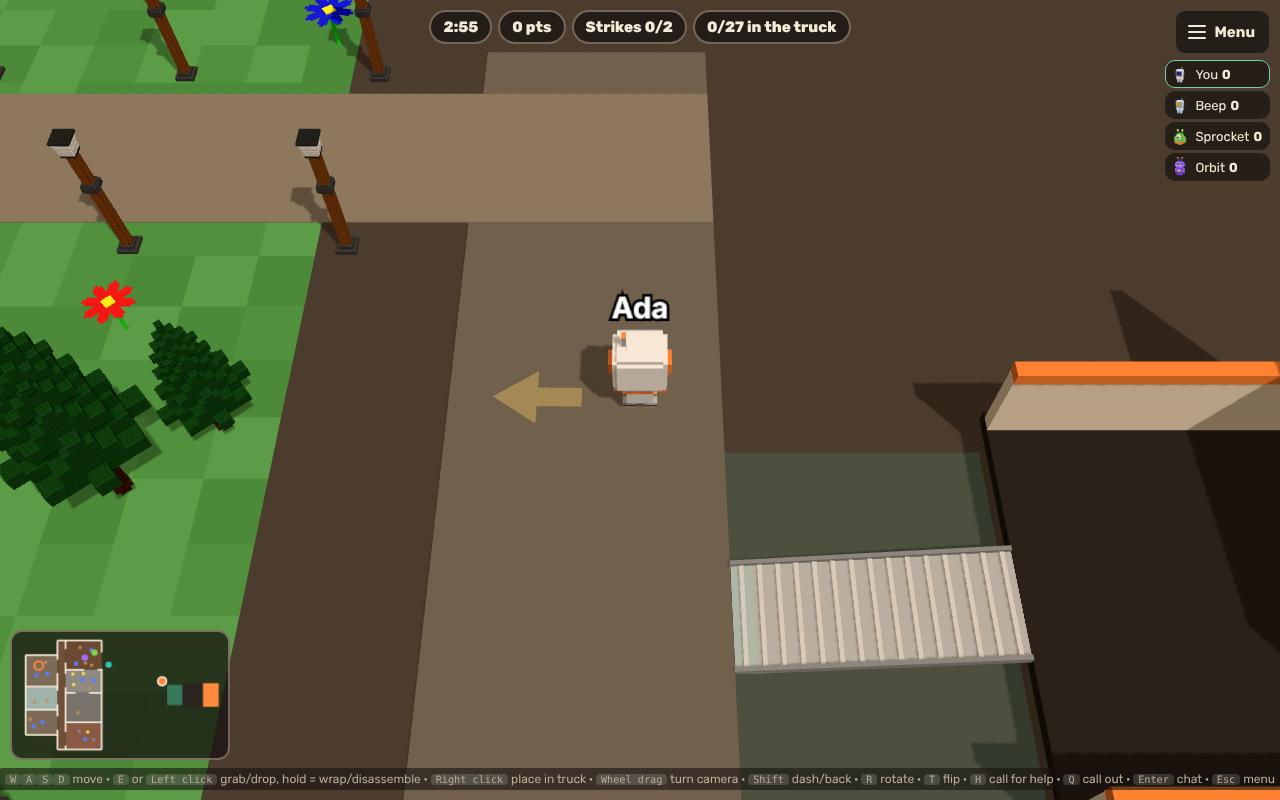
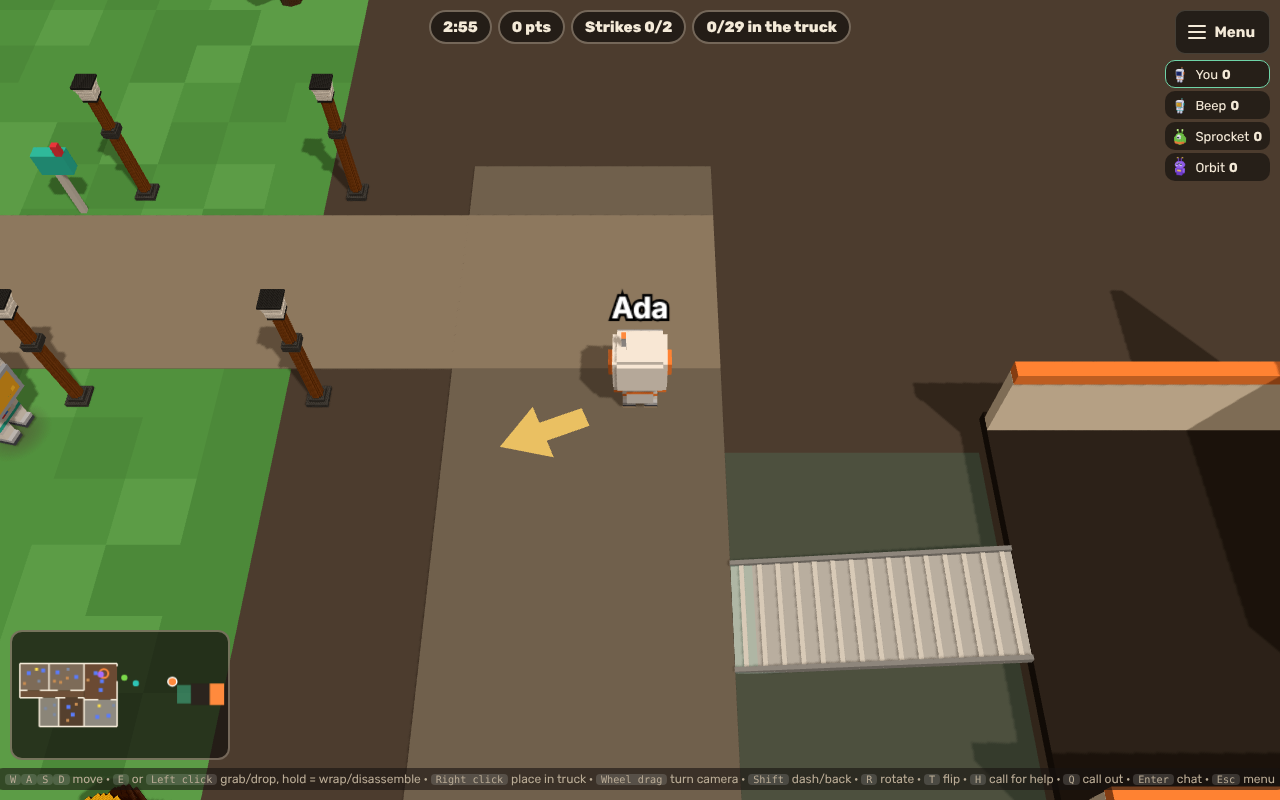
Truck: turn the view all the way round (the wall in the way steps aside), aim at the gap you can see, Full load finishes with 1-2 buried gaps
Claude-Session: https://claude.ai/code/session_01648dekPAc2ghJPhwff6oRe

diff --git a/client/src/voxel.js b/client/src/voxel.js
@@ -731,13 +731,18 @@ export function buildTruck(scene) {
   const body = 0xf4ead8, accent = 0xff8a3d, dark = 0x2b241e; // Starside white + orange
   const len = TRUCK.bayX1 - TRUCK.bayX0, wid = TRUCK.z1 - TRUCK.z0, x0 = TRUCK.bayX0, x1 = TRUCK.bayX1, fy = TRUCK.floorY;
   b.box(x0, fy - 0.2, -(wid / 2 + 0.4), x1, fy, wid / 2 + 0.4, dark, CELL);                             // floor, one block per cell
+  const truck = new THREE.Mesh(b.geometry(), voxMat); truck.castShadow = truck.receiveShadow = true; g.add(truck);
+  // the walls are separate pieces so the one between the camera and the load can step aside when the view is turned
+  const part = (fn) => { const pb = new Batch(); fn(pb); const m = new THREE.Mesh(pb.geometry(), voxMat); m.castShadow = m.receiveShadow = true; g.add(m); return m; };
+  const sides = {};
   for (const sz of [-1, 1]) {
     const zc = sz * (wid / 2 + 0.2);
-    b.box(x0, fy, zc - 0.1, x1, fy + 1.2, zc + 0.1, body, 0.4);                                         // side wall
-    b.box(x0, fy + 1.2, zc - 0.11, x1, fy + 1.4, zc + 0.11, accent, 0.4);                               // stripe
+    sides[sz] = part(pb => {
+      pb.box(x0, fy, zc - 0.1, x1, fy + 1.2, zc + 0.1, body, 0.4);                                      // side wall
+      pb.box(x0, fy + 1.2, zc - 0.11, x1, fy + 1.4, zc + 0.11, accent, 0.4);                            // stripe
+    });
   }
-  b.box(x1, fy, -(wid / 2 + 0.3), x1 + 0.2, fy + GRID.H * CELL + 0.3, wid / 2 + 0.3, body, 0.4);        // bulkhead
-  const truck = new THREE.Mesh(b.geometry(), voxMat); truck.castShadow = truck.receiveShadow = true; g.add(truck);
+  const bulkhead = part(pb => pb.box(x1, fy, -(wid / 2 + 0.3), x1 + 0.2, fy + GRID.H * CELL + 0.3, wid / 2 + 0.3, body, 0.4));
   // the cab is a hover-truck model (see /credits.html), tinted Starside purple; it hovers, so glowing pads instead of tyres
   const cab = new THREE.Group(); cab.position.set((x1 + 0.2 + TRUCK.cabX1) / 2, 0.25, 0);
   attachModel(cab, '/models/env/cab.glb', { tint: 0xf2e6d4, rot: 1, fit: [TRUCK.cabX1 - x1 - 0.2, wid + 0.6, 2.75] });
@@ -747,6 +752,7 @@ export function buildTruck(scene) {
   g.add(new THREE.Mesh(pads.geometry(), glowMat));
   const logo = new THREE.Mesh(new THREE.PlaneGeometry(3.2, 1.6), new THREE.MeshBasicMaterial({ map: labelTexture('★ STARSIDE MOVERS', { fg: '#fff', font: 'bold 34px system-ui', w: 420, h: 100 }), transparent: true }));
   logo.rotation.x = -Math.PI / 2; logo.rotation.z = Math.PI / 2; logo.position.set((x1 + TRUCK.cabX1) / 2 + 0.1, 2.92, 0); g.add(logo);
+  scene.truckParts = { sides, front: [bulkhead, cab, logo] };
   // a U-Haul style ramp: narrow, thin, ribbed aluminium with side lips, hinged at the truck so it can slide away under the floor
   const r = TRUCK.ramp, run = r.x1 - r.x0, RL = Math.hypot(run, fy), RW = 1.5, rb = new Batch(), AL = 0xb9bcc0, RIB = 0xd8dadc, LIP = 0x8e9196;
   rb.box(-RL, -0.05, -RW / 2, 0, 0, RW / 2, AL, 0.3);                                                  // the deck, 5 cm thick

diff --git a/client/src/scene.js b/client/src/scene.js
@@ -405,7 +405,19 @@ export class GameScene {
     this.raycaster.setFromCamera(v, this.camera);
     const plane = new THREE.Plane(new THREE.Vector3(0, 1, 0), -(TRUCK.floorY + CELL));
     const hit = new THREE.Vector3();
-    if (!this.raycaster.ray.intersectPlane(plane, hit)) return null;
+    // march along the ray and stop at the first stack (or bare floor) it actually touches, so a low gap between tall
+    // stacks picks the gap you can see, not whatever the ray crosses at a fixed height
+    const ray = this.raycaster.ray, hs = this.heights(), p = new THREE.Vector3();
+    const top = TRUCK.floorY + GRID.H * CELL + 0.5;
+    const t0 = ray.direction.y < 0 ? Math.max(0, (top - ray.origin.y) / ray.direction.y) : 0;
+    for (let t = t0, end = t0 + 60; t < end; t += 0.05) {
+      ray.at(t, p);
+      if (p.y < TRUCK.floorY - 0.2) break;
+      const cx = Math.floor((p.z - TRUCK.z0) / CELL), cz = Math.floor((TRUCK.bayX1 - p.x) / CELL);
+      if (cx < 0 || cz < 0 || cx >= GRID.W || cz >= GRID.D) continue;
+      if (p.y <= TRUCK.floorY + hs[cx][cz] * CELL + 0.02) return { gx: cx, gz: cz };
+    }
+    if (!ray.intersectPlane(plane, hit)) return null;
     const gx = Math.floor((hit.z - TRUCK.z0) / CELL), gz = Math.floor((TRUCK.bayX1 - hit.x) / CELL);
     if (gx < -1 || gz < -1 || gx > GRID.W || gz > GRID.D) return null;
     return { gx: Math.max(0, Math.min(GRID.W - 1, gx)), gz: Math.max(0, Math.min(GRID.D - 1, gz)) };
@@ -767,6 +779,12 @@ export class GameScene {
     this.lookAt = this.lookAt || this.camTarget.clone();
     this.lookAt.lerp(this.camTarget, 1 - Math.exp(-k * dt));
     this.camera.lookAt(this.lookAt);
+    // in the truck with the view turned: the wall between the camera and the load steps aside
+    if (this.truckParts) {
+      const tp = this.truckParts, look = !!me?.loadMode && !this.drive, c = this.camera.position, w = (TRUCK.z1 - TRUCK.z0) / 2;
+      for (const sz of [-1, 1]) tp.sides[sz].visible = !(look && c.z * sz > w + 0.2);
+      for (const m of tp.front) m.visible = !(look && c.x > TRUCK.bayX1 - 0.5);
+    }
     if (this.shakeT > 0) {
       this.shakeT -= dt;
       this.camera.position.x += (Math.random() - 0.5) * 0.5;

diff --git a/test/room.test.js b/test/room.test.js
@@ -373,6 +373,29 @@ test('Full load mode: round ends only when all 64 cells are packed', () => {
   assert.match(room.results.reason, /Perfect load/);
 });
 
+test('Full load mode: done with one or two gaps buried under the load, but not while a gap is open at the top', () => {
+  const fill = (room, skip) => // boxes drop to the lowest free spot, so skipping a cell leaves the top of that column open
+    { for (let x = 0; x < 4; x++) for (let z = 0; z < 4; z++) for (let y = 0; y < 4; y++) if (!skip(x, z, y)) gridPlace(room.grid, { id: `f${x}${z}${y}`, type: 'standard' }, x, z, 0); };
+  // two holes in the middle and at the bottom, with boxes over them: finished
+  let r = makeRoom({}); r.join('A', 'Ada'); r.send('A', 'mode', { mode: 'load' }); r.send('A', 'start');
+  fill(r.room, () => false);
+  r.room.grid.cells[1][1][1] = null; r.room.grid.cells[2][3][0] = null; // holes under the stacks
+  r.room.tick(0.05); driveAway(r.room);
+  assert.equal(r.room.phase, 'results');
+  assert.match(r.room.results.reason, /Full load! Only two gaps left/);
+  // one hole in the top layer: still open from above, so keep loading
+  r = makeRoom({}); r.join('A', 'Ada'); r.send('A', 'mode', { mode: 'load' }); r.send('A', 'start');
+  fill(r.room, (x, z, y) => x === 0 && z === 0 && y === 3);
+  r.room.tick(0.05);
+  assert.equal(r.room.phase, 'playing', 'a gap at the top can still be filled');
+  // three buried holes: not close enough
+  r = makeRoom({}); r.join('A', 'Ada'); r.send('A', 'mode', { mode: 'load' }); r.send('A', 'start');
+  fill(r.room, () => false);
+  for (const [x, z] of [[0, 0], [1, 2], [3, 3]]) r.room.grid.cells[x][z][0] = null;
+  r.room.tick(0.05);
+  assert.equal(r.room.phase, 'playing', 'three gaps is not a full load');
+});
+
 test('Full load mode: hold ACTION on the ramp to unload; pulling an item takes back its points', () => {
   const { room, join, send } = makeRoom({});
   const a = join('A', 'Ada');

diff --git a/server/MoveRoom.js b/server/MoveRoom.js
@@ -1,6 +1,6 @@
 import { Room, ServerError } from '@colyseus/core';
 import { debugHooksOn, limiter, isProd } from './security.js';
-import { createGrid, placeItem, tallyVotes, ITEM_TYPES, RULES, GRID, footprint, orientations, ORIENT_LABEL, canFitAny, isRemovable, removeFromGrid, topItemAt, SUITS, suitUnlocked, dailySeed, driveOffCheck, placementQuality } from '../shared/logic.js';
+import { createGrid, placeItem, tallyVotes, ITEM_TYPES, RULES, GRID, footprint, orientations, ORIENT_LABEL, canFitAny, isRemovable, removeFromGrid, topItemAt, SUITS, suitUnlocked, dailySeed, driveOffCheck, placementQuality, gridGaps } from '../shared/logic.js';
 import { Bot, BOT_NAMES, DIFFICULTY } from './bot.js';
 import { PLAYER_SPAWNS, inRamp, TRUCK } from '../shared/world.js';
 import { generateLevel, classicLevel, newSeed, freeSpot, tutorialLevel, houseCode, seedFromCode } from '../shared/level.js';
@@ -1498,7 +1498,10 @@ export class MoveRoom extends Room {
     }
     let doneReason = null;
     if (this.isExact()) {
+      const gaps = gridGaps(this.grid);
       if (filled === GRID.W * GRID.D * GRID.H) doneReason = 'Perfect load! The truck is packed to the roof.';
+      else if (!remaining.length) doneReason = 'Full load! Everything is in the truck.';
+      else if (gaps.empty <= 2 && gaps.open === 0) doneReason = `Full load! Only ${gaps.empty === 1 ? 'one gap' : 'two gaps'} left, buried in the load.`; // holes under the load can't be reached; holes at the top still can
       else if (remaining.length && !this.fitCache.fits && !this.stuckHinted) {
         this.stuckHinted = true;
         this.event({ kind: 'toast', text: '🧩 Nothing else fits! Hold ACTION on the ramp to pull pieces back out and repack.' });

diff --git a/client/src/main.js b/client/src/main.js
@@ -966,9 +966,9 @@ const touchEnd = (e) => {
   void me; void dt; void dist; // (turning a piece is the Rotate / Flip buttons now)
 };
 cv.addEventListener('pointerup', touchEnd); cv.addEventListener('pointercancel', touchEnd);
-/** Turn the camera: all the way round while walking; in the truck, up to about 50° either side so the walls don't hide the load. */
+/** Turn the camera all the way round, walking about or loading the truck. */
 function turnCam(d) {
-  if (meNow()?.loadMode) scene.truckYaw = Math.max(-0.9, Math.min(0.9, (scene.truckYaw || 0) + d));
+  if (meNow()?.loadMode) scene.truckYaw = ((scene.truckYaw || 0) + d) % (Math.PI * 2); // all the way round: the wall nearest the camera steps aside
   else scene.camYaw = ((scene.camYaw || 0) + d) % (Math.PI * 2);
 }
 // hold the wheel (middle button) and move the mouse to turn the camera; double-click the wheel to put it back

diff --git a/shared/logic.js b/shared/logic.js
@@ -91,6 +91,17 @@ export function shapeCells(type, rot = 0) { return pickOrient(type, rot).cells; 
 
 export const ORIENT_LABEL = (f) => f.h >= 3 ? 'standing up' : f.h === 2 ? 'on its side' : 'lying flat';
 
+/** Empty truck cells: how many, and how many are open from above (nothing stacked over them, so still fillable from the top). */
+export function gridGaps(grid) {
+  let empty = 0, open = 0;
+  for (let x = 0; x < GRID.W; x++) for (let z = 0; z < GRID.D; z++) {
+    const col = grid.cells[x][z];
+    let top = -1; for (let y = GRID.H - 1; y >= 0; y--) if (col[y]) { top = y; break; }
+    for (let y = 0; y < GRID.H; y++) if (!col[y]) { empty++; if (y > top) open++; }
+  }
+  return { empty, open };
+}
+
 export function createGrid() {
   const cells = [];
   for (let x = 0; x < GRID.W; x++) {
